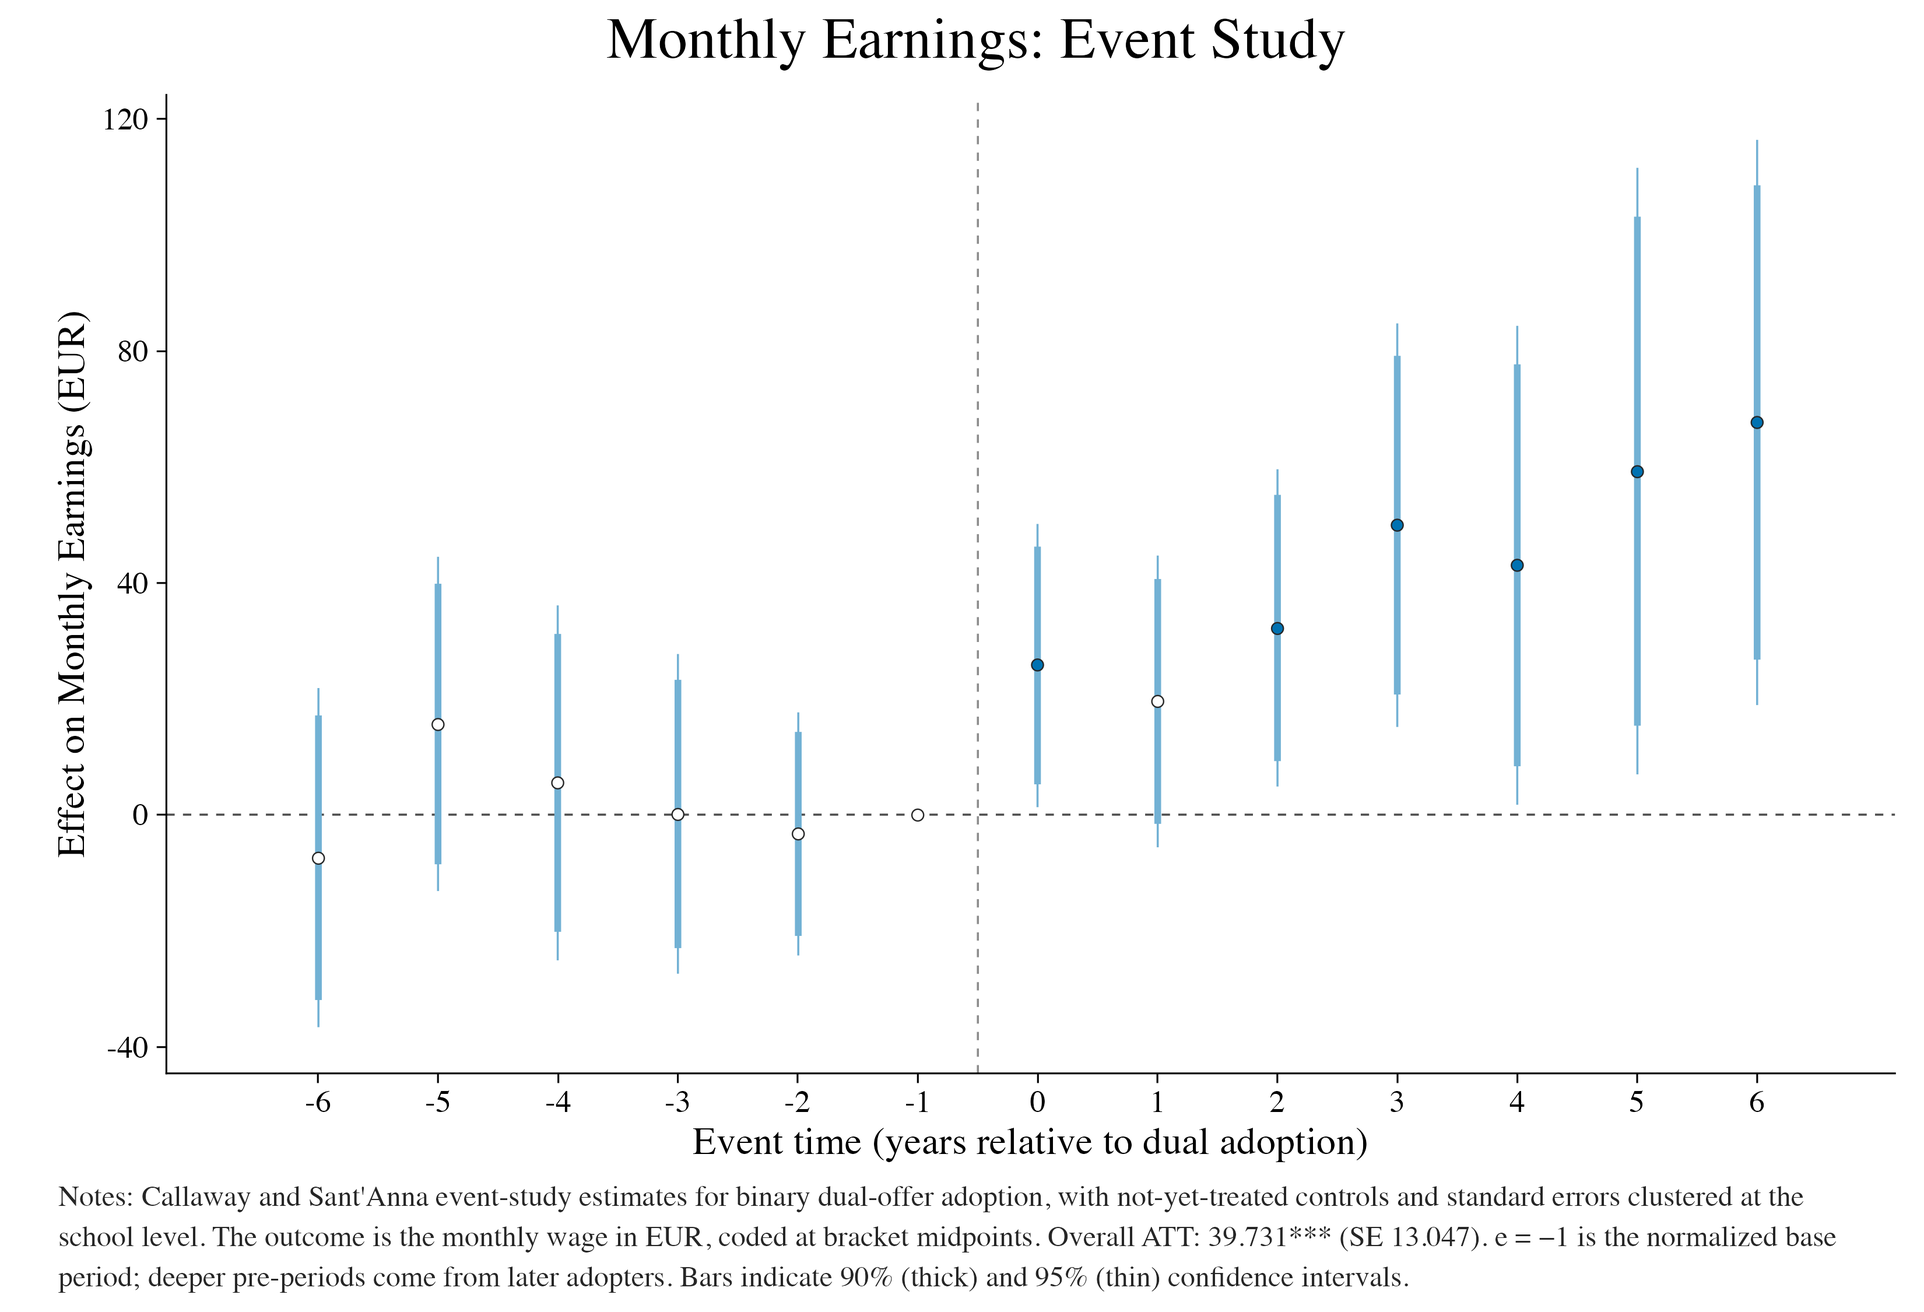
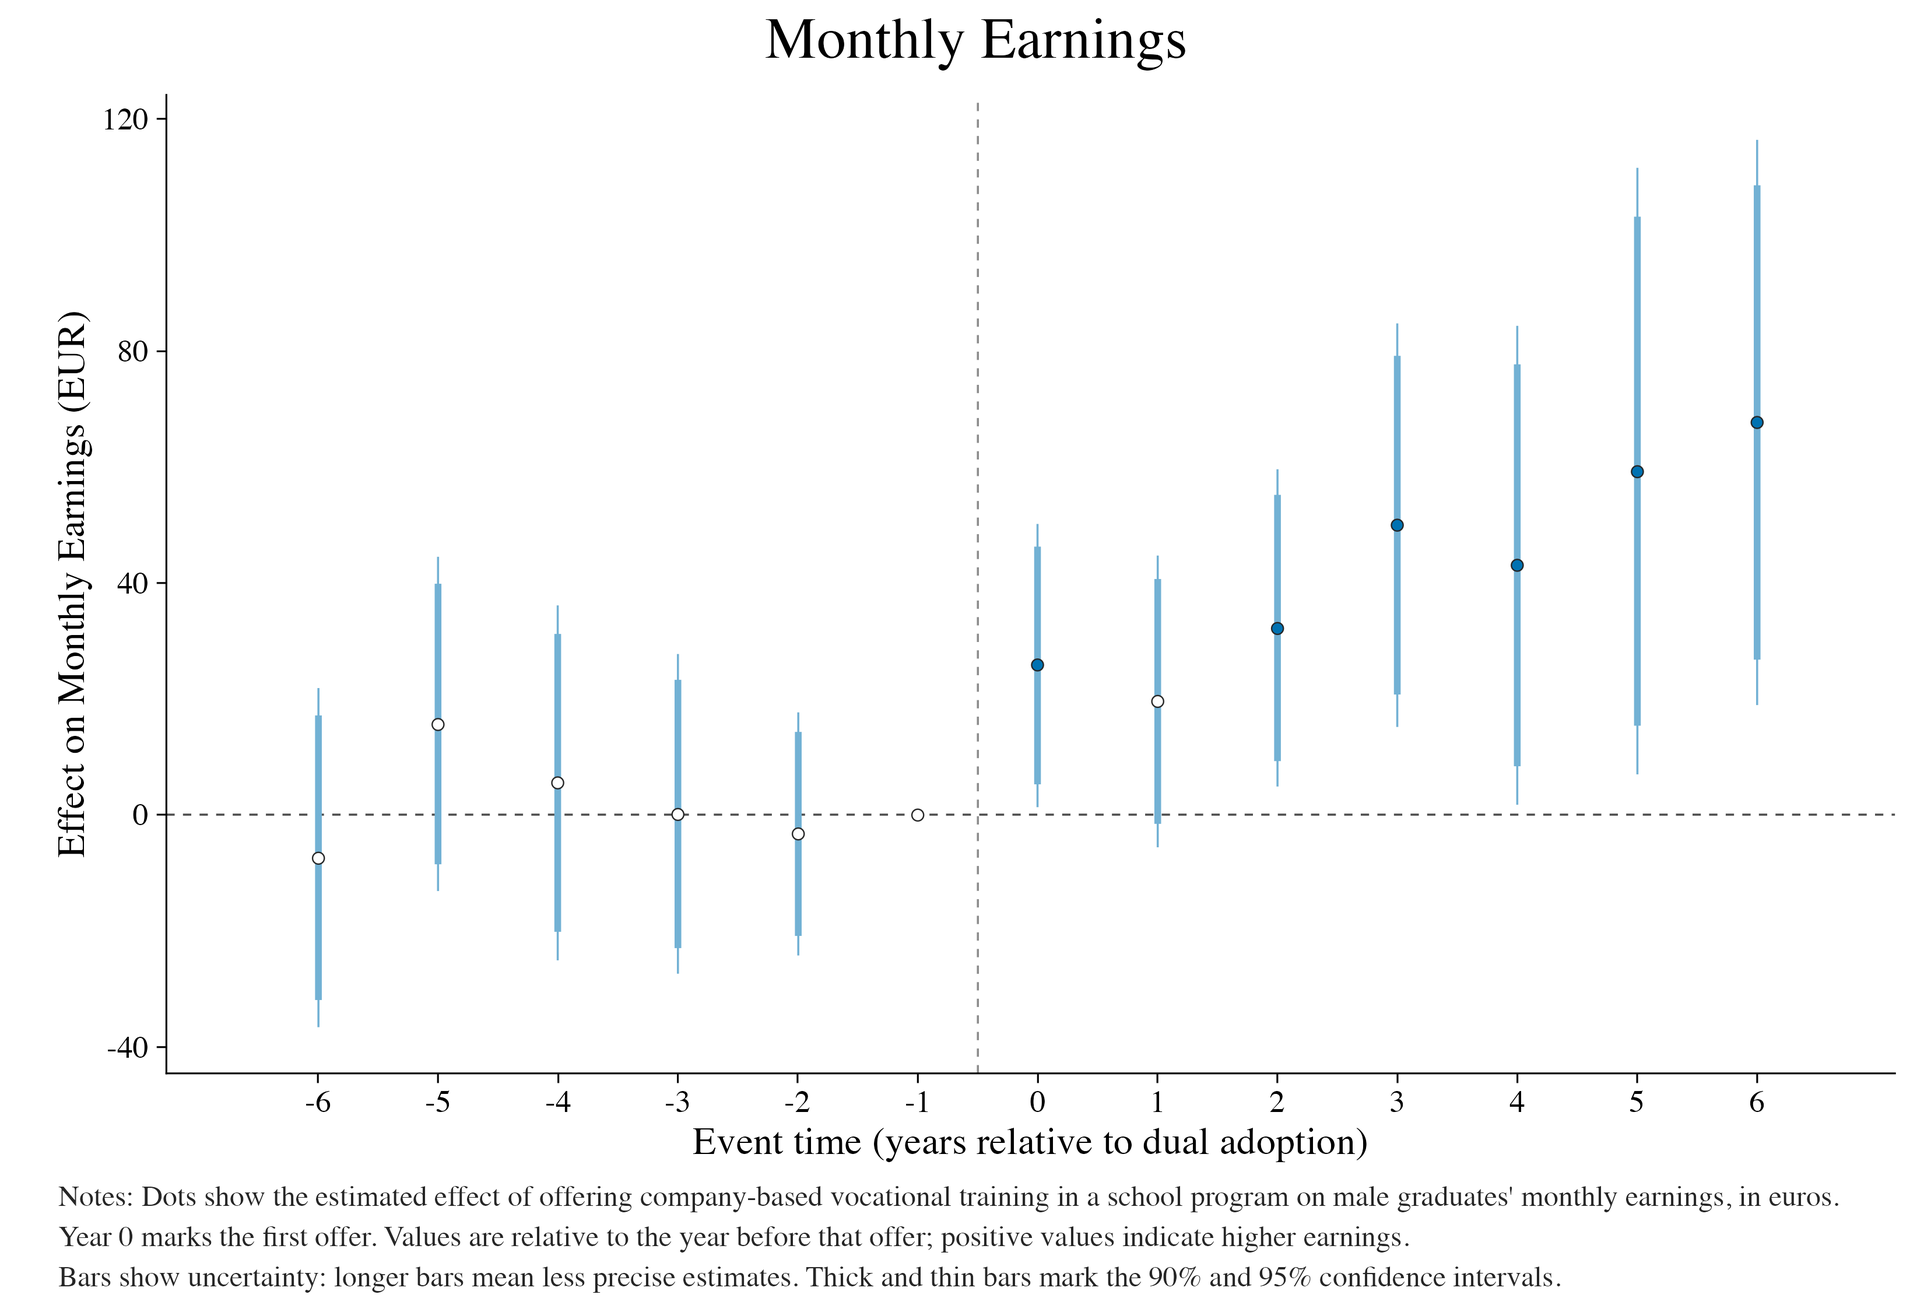
Simplify figure titles and explain charts in three lines

Changed region(s): [[0.0312, 0.9022, 0.9364, 0.9956], [0.3121, 0.0, 0.6867, 0.0622]]

diff --git a/index.html b/index.html
@@ -86,8 +86,8 @@
                         <a href="https://sites.google.com/site/ruizvalenjenifer/" target="_blank" rel="noopener">Jenifer Ruiz Valenzuela</a>)
                     </p>
                     <div class="paper-figures">
-                        <img src="/img/crime_monthly_earnings_large.png?v=20261104a" alt="Monthly Earnings: Event Study">
-                        <img src="/img/crime_youth_adult_gap_centered.png?v=20261104a" alt="Youth–Adult Crime Gap: Event Study">
+                        <img src="/img/crime_monthly_earnings_large.png?v=20261104c" alt="Monthly Earnings">
+                        <img src="/img/crime_youth_adult_gap_centered.png?v=20261104c" alt="Youth–Adult Crime Gap">
                     </div>
                     <div class="abstract-toggle">
                         <button type="button" onclick="toggleAbstract(1)" class="abstract-btn" id="pubabslink_1" aria-expanded="false" aria-controls="pubabs_1">
@@ -106,8 +106,8 @@
                         <a href="https://sergiquintana.github.io/" target="_blank" rel="noopener">Sergi Quintana</a>)
                     </p>
                     <div class="paper-figures">
-                        <img src="/img/reshuffling_up.png?v=20261104a" alt="Vulnerable Student Enrollment: Event Study">
-                        <img src="/img/reshuffling_by_type.png?v=20261104a" alt="Vulnerable Student Enrollment by School Type: Event Study">
+                        <img src="/img/reshuffling_up.png?v=20261104c" alt="Vulnerable Student Enrollment">
+                        <img src="/img/reshuffling_by_type.png?v=20261104c" alt="Vulnerable Student Enrollment by School Type">
                     </div>
                     <div class="abstract-toggle">
                         <button type="button" onclick="toggleAbstract(2)" class="abstract-btn" id="pubabslink_2" aria-expanded="false" aria-controls="pubabs_2">

diff --git a/layouts/index.html b/layouts/index.html
@@ -87,8 +87,8 @@
                         <a href="https://sites.google.com/site/ruizvalenjenifer/" target="_blank" rel="noopener">Jenifer Ruiz Valenzuela</a>)
                     </p>
                     <div class="paper-figures">
-                        <img src="/img/crime_monthly_earnings_large.png?v=20261104a" alt="Monthly Earnings: Event Study">
-                        <img src="/img/crime_youth_adult_gap_centered.png?v=20261104a" alt="Youth–Adult Crime Gap: Event Study">
+                        <img src="/img/crime_monthly_earnings_large.png?v=20261104c" alt="Monthly Earnings">
+                        <img src="/img/crime_youth_adult_gap_centered.png?v=20261104c" alt="Youth–Adult Crime Gap">
                     </div>
                     <div class="abstract-toggle">
                         <button type="button" onclick="toggleAbstract(1)" class="abstract-btn" id="pubabslink_1" aria-expanded="false" aria-controls="pubabs_1">
@@ -107,8 +107,8 @@
                         <a href="https://sergiquintana.github.io/" target="_blank" rel="noopener">Sergi Quintana</a>)
                     </p>
                     <div class="paper-figures">
-                        <img src="/img/reshuffling_up.png?v=20261104a" alt="Vulnerable Student Enrollment: Event Study">
-                        <img src="/img/reshuffling_by_type.png?v=20261104a" alt="Vulnerable Student Enrollment by School Type: Event Study">
+                        <img src="/img/reshuffling_up.png?v=20261104c" alt="Vulnerable Student Enrollment">
+                        <img src="/img/reshuffling_by_type.png?v=20261104c" alt="Vulnerable Student Enrollment by School Type">
                     </div>
                     <div class="abstract-toggle">
                         <button type="button" onclick="toggleAbstract(2)" class="abstract-btn" id="pubabslink_2" aria-expanded="false" aria-controls="pubabs_2">

diff --git a/public/index.html b/public/index.html
@@ -86,8 +86,8 @@
                         <a href="https://sites.google.com/site/ruizvalenjenifer/" target="_blank" rel="noopener">Jenifer Ruiz Valenzuela</a>)
                     </p>
                     <div class="paper-figures">
-                        <img src="/img/crime_monthly_earnings_large.png?v=20261104a" alt="Monthly Earnings: Event Study">
-                        <img src="/img/crime_youth_adult_gap_centered.png?v=20261104a" alt="Youth–Adult Crime Gap: Event Study">
+                        <img src="/img/crime_monthly_earnings_large.png?v=20261104c" alt="Monthly Earnings">
+                        <img src="/img/crime_youth_adult_gap_centered.png?v=20261104c" alt="Youth–Adult Crime Gap">
                     </div>
                     <div class="abstract-toggle">
                         <button type="button" onclick="toggleAbstract(1)" class="abstract-btn" id="pubabslink_1" aria-expanded="false" aria-controls="pubabs_1">
@@ -106,8 +106,8 @@
                         <a href="https://sergiquintana.github.io/" target="_blank" rel="noopener">Sergi Quintana</a>)
                     </p>
                     <div class="paper-figures">
-                        <img src="/img/reshuffling_up.png?v=20261104a" alt="Vulnerable Student Enrollment: Event Study">
-                        <img src="/img/reshuffling_by_type.png?v=20261104a" alt="Vulnerable Student Enrollment by School Type: Event Study">
+                        <img src="/img/reshuffling_up.png?v=20261104c" alt="Vulnerable Student Enrollment">
+                        <img src="/img/reshuffling_by_type.png?v=20261104c" alt="Vulnerable Student Enrollment by School Type">
                     </div>
                     <div class="abstract-toggle">
                         <button type="button" onclick="toggleAbstract(2)" class="abstract-btn" id="pubabslink_2" aria-expanded="false" aria-controls="pubabs_2">

diff --git a/scripts/figures/README.md b/scripts/figures/README.md
@@ -57,17 +57,20 @@ Reference for naming and hierarchy: the author PDF
 Appendix Figure F1, PDF page 56 (printed page 55). Its event-study panels are titled
 by outcome, e.g. "(b) Academic Upper Sec.: Event Study" and "(d) Earnings at Age 29:
 Event Study"; the estimator, sample, clustering and interval conventions are stated in
-the Notes, not in the titles. Typography measured in that PDF: panel captions 9.96 pt;
+the Notes, not in the titles. The website keeps the outcome-first idea but drops the
+": Event Study" suffix (user request, 2026-11-04).
+Typography measured in that PDF: panel captions 9.96 pt;
 inside the panels, axis labels 5.15 pt, ticks 4.11 pt, legend 4.94 pt; Notes 8.97 pt
 across both columns of panels.
 
 The website figures adopt that pattern as a deliberate **web adaptation**, not an
 exact copy of the PDF point sizes:
 
-* Titles: "<Outcome>: Event Study", no estimator names and no result claims.
-  "Monthly Earnings: Event Study"; "Youth–Adult Crime Gap: Event Study"; "Vulnerable
-  Student Enrollment: Event Study"; "Vulnerable Student Enrollment by School Type:
-  Event Study". Embedded in the PNG only.
+* Titles: the outcome only, no ": Event Study" suffix, no estimator names and no
+  result claims. In site order: "Monthly Earnings"; "Youth–Adult Crime Gap";
+  "Vulnerable Student Enrollment"; "Vulnerable Student Enrollment by School Type".
+  Embedded in the PNG; the `<img alt>` text in `index.html`, `public/index.html` and
+  `layouts/index.html` equals the title.
 * Sizes (serif, Times via ragg), shared by all four figures: title 24 pt regular,
   centred; axis titles 16 pt; tick labels 13 pt; legend 13 pt; Notes 12 pt, grey15,
   line height 1.15, left aligned. No subtitle (`subtitle = NULL`, no grob drawn).
@@ -80,39 +83,68 @@ exact copy of the PDF point sizes:
 * Titles are word-wrapped at 70 characters; all four currently fit on one line.
   `03_verify.R` requires at most 2 lines, all at 24 pt, and measures the widest rendered
   line against the canvas width minus margins (10.5 in).
-* Notes are wrapped by rendered width (greedy word wrap measured at 12 pt on the ragg
-  device, 0.15 in safety allowance); `03_verify.R` re-measures every line against 10.5 in.
+* Notes are exactly three explicit lines (no automatic wrapping; see *Text*).
+  `03_verify.R` measures every rendered 12 pt line on the ragg device and requires it to
+  fit the renderer width `TEXT_W_IN` (10.35 in, i.e. 10.5 in less a 0.15 in allowance).
 
 ## Text
 
-Printed statistics of the original website figures are kept; the original titles and
-subtitles were replaced by the outcome-first titles above, and their estimator, sample
-and outcome information moved into the Notes. Each figure has a left-aligned "Notes:" paragraph that describes its own
-estimator and sample and ends with the same sentence, "Bars indicate 90% (thick) and
-95% (thin) confidence intervals." How the bounds are computed (saved 95% bounds verbatim;
-90% = estimate ± `qnorm(0.95)` × saved SE) is documented here and in the source
-comments, not on the public charts. No variable or cache names appear in the Notes.
+### Explanatory Notes (public, on the charts)
 
-* Axis titles: y "Effect on Monthly Earnings (EUR)" (wage), "Effect on Crime-Rate Gap
+The public Notes are plain-language explanations for readers who have not read the
+papers (user request, 2026-11-04). Each figure has exactly three explicit lines at
+12 pt: two figure-specific lines (the first starts with "Notes:") and a common third
+line, "Bars show uncertainty: longer bars mean less precise estimates. Thick and thin
+bars mark the 90% and 95% confidence intervals." They state what the dots measure, the
+timing/reference period and the units. They carry no technical statistics (ATT, SE,
+p-values, school counts) and no estimator names; those are archived below. How the
+bounds are computed (saved 95% bounds verbatim; 90% = estimate ± `qnorm(0.95)` × saved
+SE) is documented here and in the source comments. No variable or cache names appear.
+
+Plain-language readings (confirmed against the producers, no re-estimation):
+
+* Wage: the historical producer restricts to male graduates (`sex == 1`); "first offer"
+  is the first adoption of dual training by a program within a school
+  (`cid × dgid × dgsup`); reference e = −1 ("the year before that offer").
+* Crime gap: ages 16–25 minus 36–45, crimes per 1,000 residents; year 0 = local
+  adoption; reference e = −1.
+* Enrollment (both): the coefficient is enrolled vulnerable (NESE-B, Infantil) pupils per
+  unit of `treat_nb` = corrected reserved-seat quota minus the 2016–2018 mean vulnerable
+  enrollment ("per extra pupil needed to meet a school's quota"); reference year 2018.
+  The UP group (below the baseline quota, 0.5 pp band) is rendered as "schools initially
+  below quota", an accepted plain-language approximation.
+
+`03_verify.R` checks the exact text of all three lines, that each figure has exactly
+three lines with "Notes:" only on line 1, that each rendered line fits, and that no
+technical statistic appears.
+
+### Axis titles
+
+* y "Effect on Monthly Earnings (EUR)" (wage), "Effect on Crime-Rate Gap
   (per 1,000)" (gap), "Effect on Vulnerable Enrollment (Students)" (both enrollment
   figures). The x titles keep their original period meaning ("Event time (years
   relative to dual adoption)", "Years relative to dual-VET adoption", "Year").
-* Crime gap: the former subtitle (16–25 minus 36–45 gap) is covered by the Notes
-  sentence defining the outcome. The post-period average (−17.1 per 1,000, p = 0.011) and the pre-trend test (p = 0.84)
-  move from the subtitle into the Notes. The Notes add the estimator ("Callaway and
-  Sant'Anna event-study estimates with never-treated controls."; source series
-  `csdid_nt`, not printed) and the normalisation (year −1).
-* Pooled UP: the original note (BCN public+charter; baseline 2016–2018; quota year 2019,
-  ref = 2018; n = 311; filled = p < 0.05) becomes a sentence-form Notes paragraph naming
-  the continuous difference-in-differences event study with published quotas. The former
-  title context ("Infantil") and subtitle ("Outcome: Effect on NESE-B number") become the
-  Notes sentence "The outcome is the number of vulnerable (NESE-B) students enrolled in
-  preschool (Infantil)." The variable is unchanged; "UP" is not expanded.
-* By type: same estimator, published-quota and outcome sentences as pooled UP.
-  The printed averages (Public +0.057 / +1.259, n = 158; Charter −0.029 / +0.399,
-  n = 153) and the baseline, quota and reference years are kept in full. The original
-  note was clipped at the right edge of the image; its full text (quota year 2019,
-  ref = 2018) is confirmed by the source.
+
+### Archived technical statistics (no longer printed on the charts)
+
+These numbers were printed on the original website figures and then in earlier
+technical Notes. They are no longer on the charts, but the saved data still reproduce
+them and `03_verify.R` (section 6 and the wage checks) keeps testing that.
+
+* Crime gap: Callaway and Sant'Anna, never-treated controls (source series `csdid_nt`);
+  post-period average −17.1 per 1,000 (p = 0.011); pre-trend test p = 0.84.
+* Pooled UP: continuous difference-in-differences event study with published quotas
+  (BCN public+charter; baseline 2016–2018; quota year 2019, ref = 2018; n = 311 UP
+  schools; filled markers = p < 0.05). Outcome: number of vulnerable (NESE-B) students in
+  preschool (Infantil). The fill rule is still drawn and checked.
+* By type: same estimator and outcome; printed averages Public +0.057 / +1.259
+  (n = 158), Charter −0.029 / +0.399 (n = 153). The original note was clipped at the
+  right edge of the image; its full text (quota year 2019, ref = 2018) is confirmed by
+  the source.
+* Wage: Callaway and Sant'Anna for binary dual-offer adoption, not-yet-treated controls,
+  standard errors clustered at the school level, monthly wage in EUR coded at bracket
+  midpoints; printed overall ATT 39.731*** (SE 13.047); deeper pre-periods come from
+  later adopters.
 
 After rendering, copy each of the four PNGs to `static/img/` and `public/img/` under
 the same filename. `03_verify.R` checks that the sha256 is equal across the three
@@ -133,7 +165,8 @@ row for the same (period, series) key, so a permutation fails. The 95% bars must
 the saved bounds exactly and the 90% bars must equal estimate ∓ `qnorm(0.95)` × saved SE
 exactly. It also checks the original support (10 crime-gap points, 12 UP, 24 by type),
 that there are exactly two interval layers, the UP fill rule, the template (canvas, dpi,
-font sizes, colours, point shapes and sizes, line widths) and the exact label text.
+font sizes, colours, point shapes and sizes, line widths), the exact label text and the
+three-line explanatory Notes.
 
 ## Sources (read-only; hashes in `data/provenance.json`)
 
@@ -170,10 +203,10 @@ so they are **not** used.
 | | Original | Restyled |
 |---|---|---|
 | Size | 1600×1050 (crime, wage), 1800×1050 (reshuffling) | 3300×2250 all (11 × 7.5 in, 300 dpi), reference template |
-| Crime gap | C&S never-treated, 95% bars | identical values and saved 95% bounds (thin), added 90% bars (thick); blue circles; post-average and pre-trend statistics moved to Notes (panel tag "(a)" dropped) |
-| UP | ribbon 95% CI; filled = p < 0.05 | identical values and saved 95% bounds as thin bars, added 90% thick bars; filled blue circle = p < 0.05 (reference year hollow, as before); original note as Notes |
-| By type | 95% bars, all markers filled | identical values and saved 95% bounds, added 90% bars; Public #0072B2 circle, Charter #D55E00 triangle; untitled bottom legend; Notes keep printed averages and n |
-| Wage | 1600×1050 raster, 95% bars, hollow = not significant | same ggplot template; centres and 95% bar endpoints at the original image coordinates (graphical reconstruction, no numbers derived); added 90% thick bars = 95% bars scaled by qnorm(0.95)/1.96 about the centre; same hollow markers; outcome-first title; ATT 39.731*** (SE 13.047) in Notes |
+| Crime gap | C&S never-treated, 95% bars | identical values and saved 95% bounds (thin), added 90% bars (thick); blue circles; post-average and pre-trend statistics archived (README), explanatory Notes (panel tag "(a)" dropped) |
+| UP | ribbon 95% CI; filled = p < 0.05 | identical values and saved 95% bounds as thin bars, added 90% thick bars; filled blue circle = p < 0.05 (reference year hollow, as before); original note archived, explanatory Notes |
+| By type | 95% bars, all markers filled | identical values and saved 95% bounds, added 90% bars; Public #0072B2 circle, Charter #D55E00 triangle; untitled bottom legend; printed averages and n archived, explanatory Notes |
+| Wage | 1600×1050 raster, 95% bars, hollow = not significant | same ggplot template; centres and 95% bar endpoints at the original image coordinates (graphical reconstruction, no numbers derived); added 90% thick bars = 95% bars scaled by qnorm(0.95)/1.96 about the centre; same hollow markers; outcome title; ATT 39.731*** (SE 13.047) archived, explanatory Notes |
 
 ## Monthly wage figure (`img/crime_monthly_earnings_large.png`)
 
@@ -252,18 +285,12 @@ producer's 95% multiplier; no 95% bound is recomputed.
 Limitation: this is a graphical re-expression at the original raster resolution. The 95%
 endpoints are known to about 1 source pixel (≈ 0.2 EUR on the printed scale; 40 EUR ≈
 191 px), so the 90% endpoints carry the same precision. No event-time coefficient or SE
-is recovered, and none is written to disk. The Notes keep only the original printed
-statistics.
+is recovered, and none is written to disk.
 
 Fidelity is geometric at the original raster resolution, not numerical estimator
-exactness. Text: title "Monthly Earnings: Event Study", y axis "Effect on Monthly Earnings (EUR)".
-The former title/subtitle information moves to the Notes: Callaway and Sant'Anna
-estimates for binary dual-offer adoption, not-yet-treated controls, standard errors
-clustered at the school level, and the outcome "monthly wage in EUR, coded at bracket
-midpoints" (the original axis "Monthly Wage (EUR, midpoints)"; same variable). The Notes
-keep "Overall ATT: 39.731*** (SE 13.047)", state that e = −1 is the normalized base period
-and that deeper pre-periods come from later adopters, and end with the same sentence as
-the other figures, "Bars indicate 90% (thick) and 95% (thin) confidence intervals."
+exactness. Text: title "Monthly Earnings", y axis "Effect on Monthly Earnings (EUR)",
+three-line explanatory Notes (see *Text*); the former title/subtitle/ATT information is
+archived under *Archived technical statistics*.
 `03_verify.R` checks that each drawn centre and 95% bar endpoint equals the saved
 coordinate for its event time exactly; that each 90% endpoint equals centre +
 `qnorm(0.95)`/1.96 × (95% endpoint − centre) (written independently as a weighted
